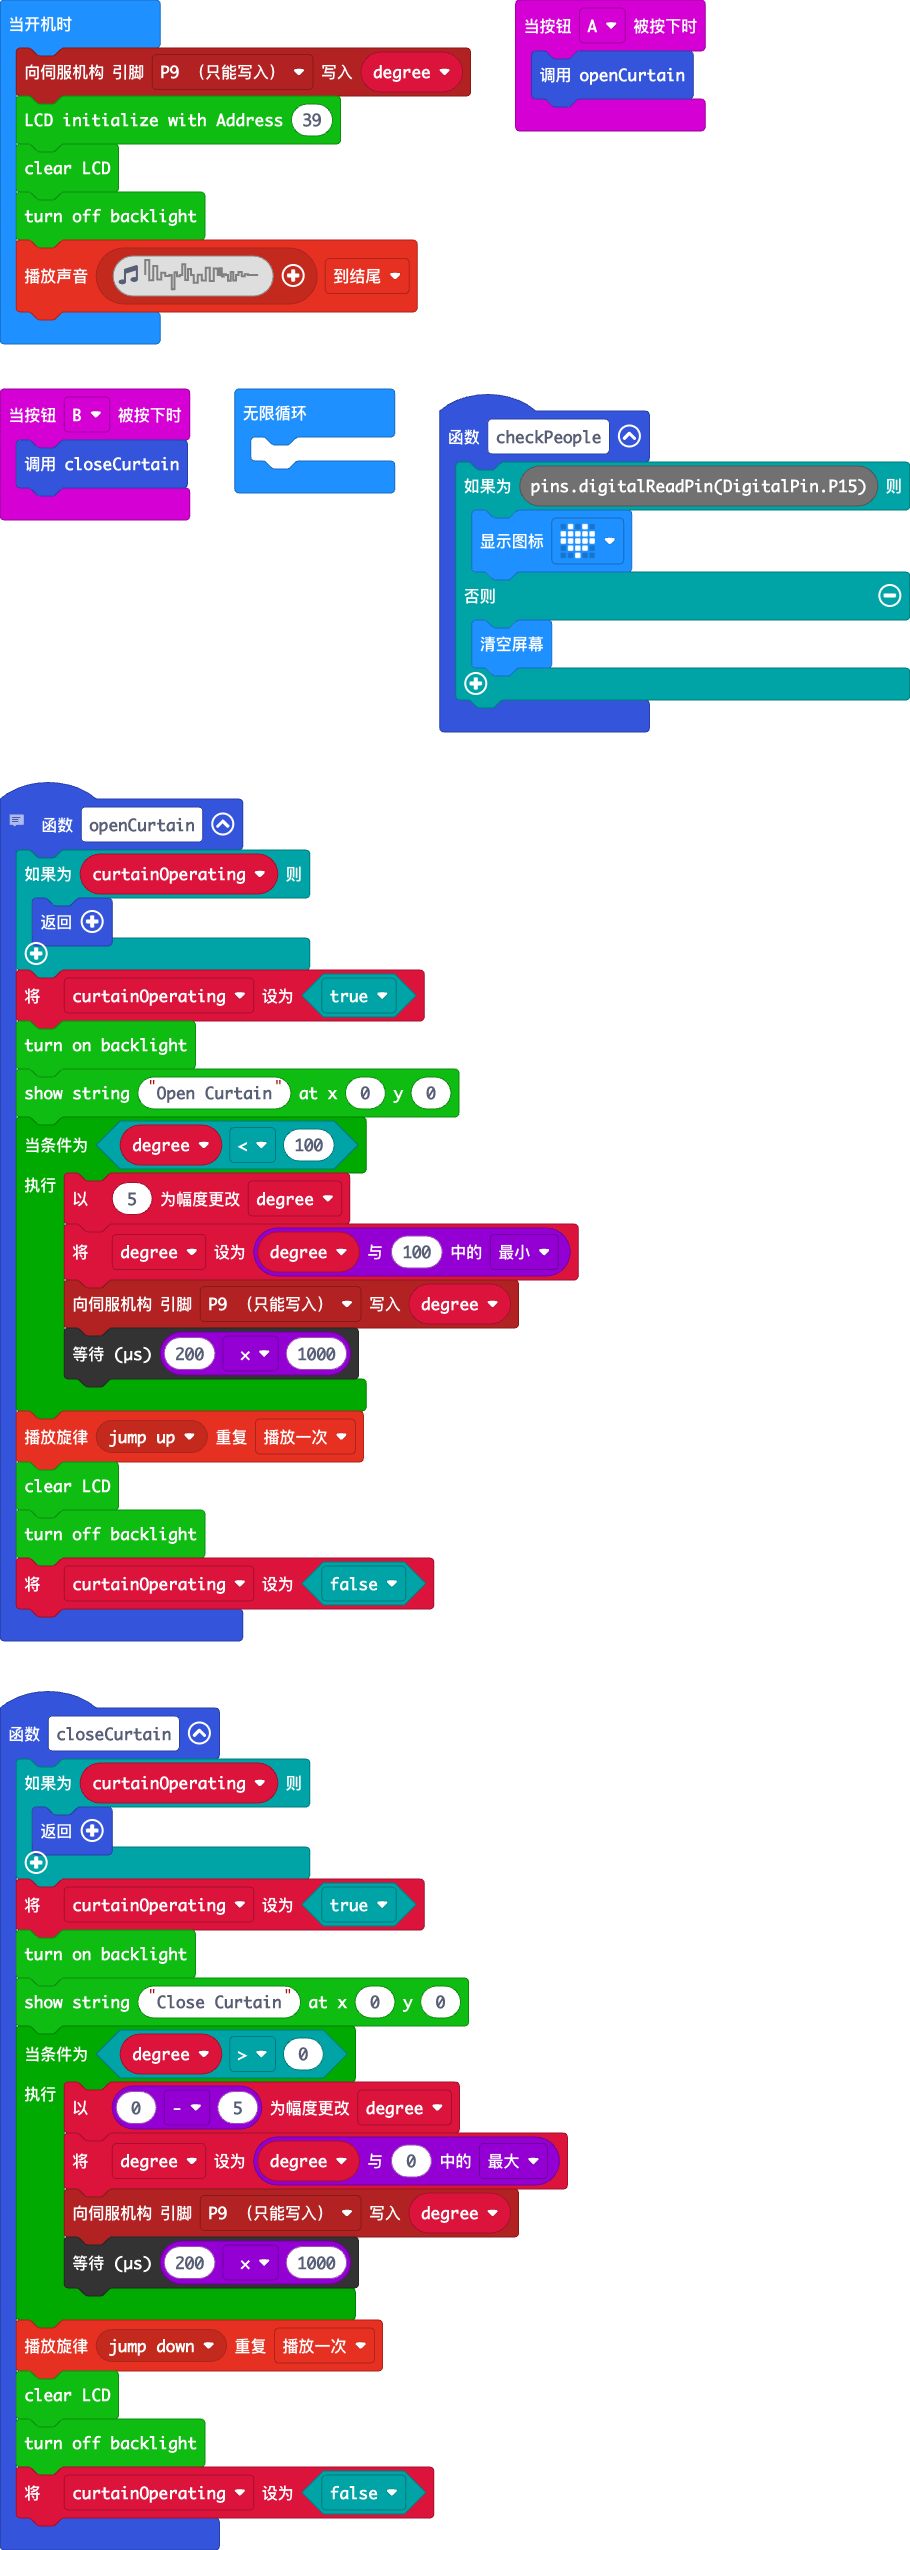
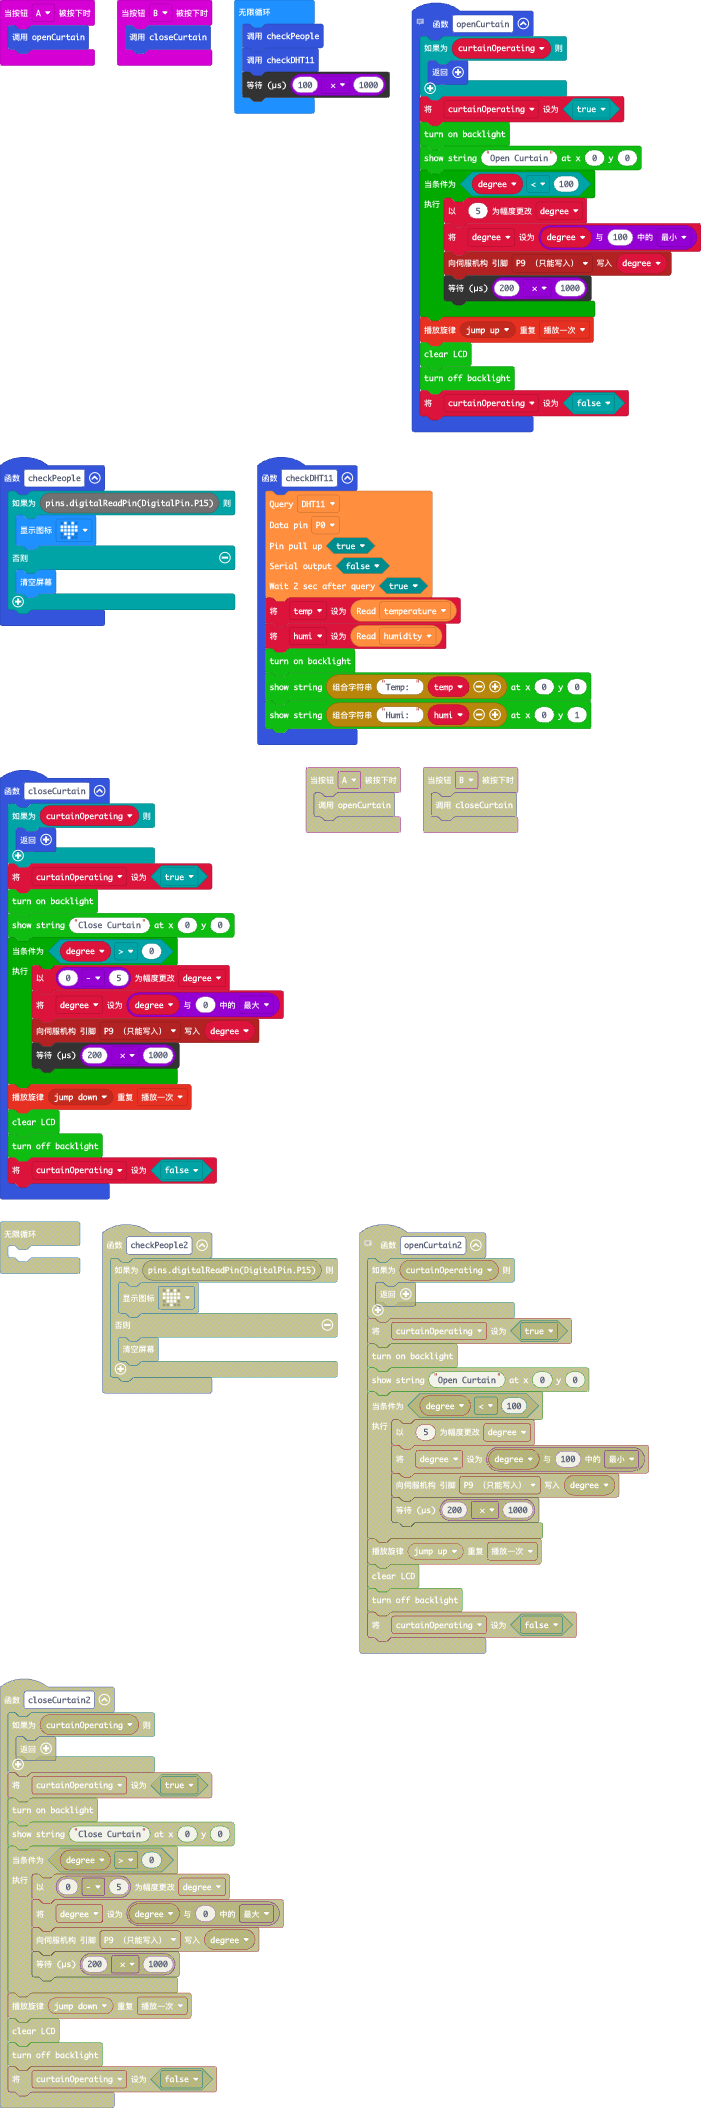
motor

diff --git a/main.ts b/main.ts
@@ -3,7 +3,9 @@
 // 窗: AnalogPin.P9
 // 
 // 红外热释电传感器: P15
-function openCurtain () {
+// DHT11 传感器: P2
+// 电机: AnalogPin P12 + P13
+function openCurtain() {
     if (curtainOperating) {
         return
     }
@@ -21,14 +23,14 @@ function openCurtain () {
     I2C_LCD1602.BacklightOff()
     curtainOperating = false
 }
-function checkPeople () {
+function checkPeople() {
     if (pins.digitalReadPin(DigitalPin.P15)) {
         basic.showIcon(IconNames.Heart)
     } else {
         basic.clearScreen()
     }
 }
-function closeCurtain () {
+function closeCurtain() {
     if (curtainOperating) {
         return
     }
@@ -52,14 +54,40 @@ input.onButtonPressed(Button.A, function () {
 input.onButtonPressed(Button.B, function () {
     closeCurtain()
 })
+function checkDHT11() {
+    dht11_dht22.queryData(
+        DHTtype.DHT11,
+        DigitalPin.P2,
+        true,
+        false,
+        true
+    )
+    temp = dht11_dht22.readData(dataType.temperature)
+    humi = dht11_dht22.readData(dataType.humidity)
+    if (!dht11_dht22.readDataSuccessful()) {
+        return
+    }
+    I2C_LCD1602.BacklightOn()
+    I2C_LCD1602.ShowString("Temp: " + temp, 0, 0)
+    I2C_LCD1602.ShowString("Humi: " + humi, 0, 1)
+    if (humi > 90) {
+        pins.analogWritePin(AnalogPin.P12, 300)
+        pins.analogWritePin(AnalogPin.P13, 0)
+    } else {
+        pins.analogWritePin(AnalogPin.P12, 0)
+        pins.analogWritePin(AnalogPin.P13, 0)
+    }
+}
+let humi = 0
+let temp = 0
 let curtainOperating = false
 let degree = 0
 pins.servoWritePin(AnalogPin.P9, degree)
 I2C_LCD1602.LcdInit(39)
 I2C_LCD1602.clear()
 I2C_LCD1602.BacklightOff()
-music.playSoundEffect(music.createSoundEffect(WaveShape.Noise, 5000, 0, 255, 0, 500, SoundExpressionEffect.None, InterpolationCurve.Linear), SoundExpressionPlayMode.UntilDone)
 basic.forever(function () {
-	checkPeople()
+    checkPeople()
+    checkDHT11()
     control.waitMicros(100 * 1000)
 })
